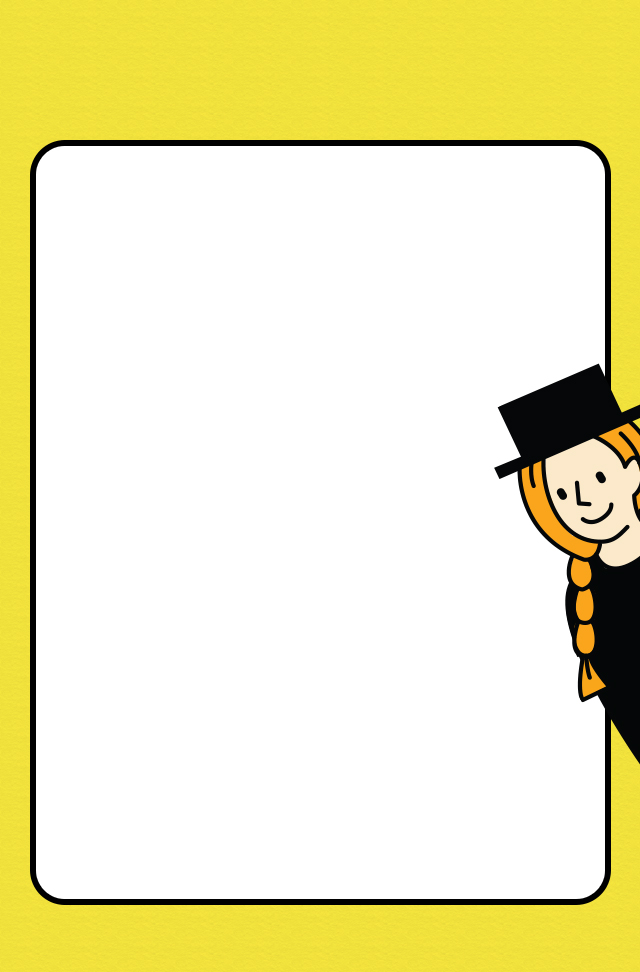
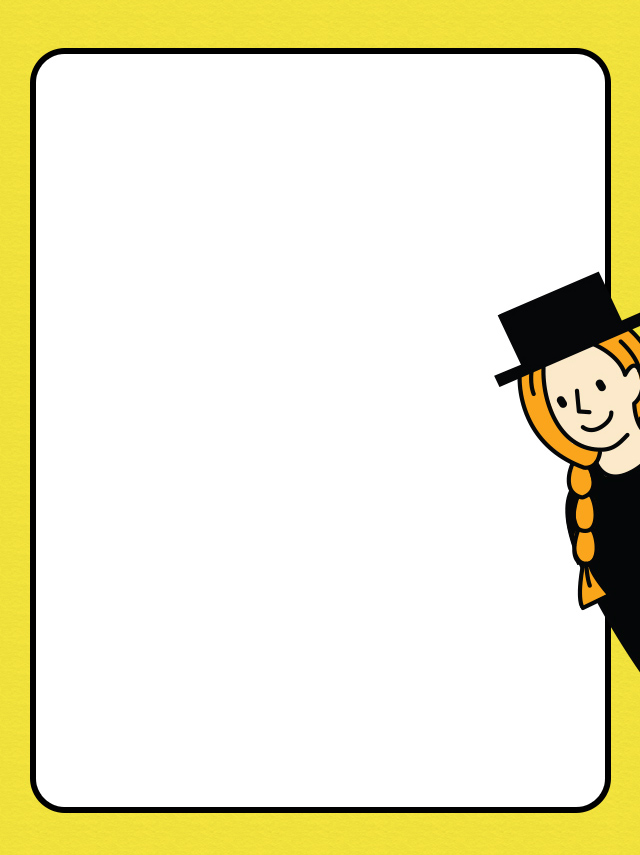
쿠폰확인 페이지

Changed region(s): [[0.0312, 0.0304, 0.9688, 0.1825], [0.7812, 0.3041, 1.0, 0.7602], [0.0312, 0.8819, 0.9688, 0.9731]]

diff --git a/MOBILE/m_coupon.html b/MOBILE/m_coupon.html
@@ -15,20 +15,14 @@ initial-scale=1.0, maximum-scale=3.0"/>
 
 <body>
     
-   
- 	<div class="sec_top">
-    	<div class="inner_sec_top clearfix">
-	        <div class="logo"><a href="#"><img src="images/logo.png" alt=""/></a></div>
-	        <div class="menu"><a href="#"><img src="images/menu_ham.png" width="95" alt=""/></a></div>
-            
-        </div>
-    </div>
      
     <div class="sec_sub_coupon">
     	
     	<div class="thanks bg">
-        	<a href="#"><img src="images/img_coupon.png" alt=""/></a>
+        	<img src="images/img_coupon.png" alt=""/>
+            <img src="images/coupon_text.png" alt=""/>
         </div>
+        <div class="coupon_text">빌리프 안산점</div>
         <div class="coupon bg">
         	<a href="#"><img src="images/btn_coupon.png" alt=""/></a>
         </div>

diff --git a/MOBILE/css/style.css b/MOBILE/css/style.css
@@ -119,9 +119,20 @@ body{
 
 .sec_sub_coupon .coupon{
 	position:absolute;
-	bottom:15%; 
+	bottom:13%; 
 }
 
+.sec_sub_coupon{
+	float:right;
+	font-size:17px;
+	font-weight:bold;
+	line-height:28px;
+}
+.sec_sub_coupon .coupon_text{
+	position:absolute;
+	bottom:35%; 
+	left:52%;
+}
 
 @media screen and (min-device-width: 321px) and (max-device-width: 375px) {
 	.wrap_game_bg{

diff --git a/MOBILE/coupon_page.php b/MOBILE/coupon_page.php
@@ -1,48 +1,32 @@
-<!doctype html>
-<html>
-<head>
-<meta charset="utf-8">
-<meta name="viewport"
-content="width=device-width, user-scalable=yes,
-initial-scale=1.0, maximum-scale=3.0"/>
-<link rel="shortcut icon" type="image/x-icon" href="./img/icon/favicon.ico" />
-<title>모바일 서브 게임</title>
-<!--[if lt IE 9]><script src="./js/html5shiv.js"></script><![endif]-->
-<link href="css/style.css" rel="stylesheet" type="text/css">
-<script src="js/vendor/modernizr-2.6.2.min.js"></script>
+<?
+	include_once   "./header.php";
+	$mb_phone	= $_REQUEST['mid'];
 
-</head>
+	$mb_query		= "SELECT * FROM ".$_gl['member_info_table']." WHERE mb_phone='".$mb_phone."'";
+	$mb_result		= mysqli_query($my_db, $mb_query);
+	$mb_data		= mysqli_fetch_array($mb_result);
 
+	if (!$mb_data)
+	{
+		print_r("고객님의 쿠폰 정보가 없습니다.");
+		exit;
+	}
+	$shop_query		= "SELECT * FROM ".$_gl['shop_info_table']." WHERE idx='".$mb_data['mb_shop']."'";
+	$shop_result		= mysqli_query($my_db, $shop_query);
+	$shop_data		= mysqli_fetch_array($shop_result);
+
+?>
 <body>
-    
-   
- 	<div class="sec_top">
-    	<div class="inner_sec_top clearfix">
-	        <div class="logo"><a href="#"><img src="images/logo.png" alt=""/></a></div>
-	        <div class="menu"><a href="#"><img src="images/menu_ham.png" width="95" alt=""/></a></div>
-            
-        </div>
-    </div>
-     
-    <div class="sec_sub_coupon">
-    	
-    	<div class="thanks bg">
-        	<a href="#"><img src="images/img_coupon.png" alt=""/></a>
-        </div>
-        <div class="coupon bg">
-        	<a href="#"><img src="images/btn_coupon.png" alt=""/></a>
-        </div>
-    	<div class="bg"><img src="images/bg_coupon.jpg" alt=""/></div>
-    </div>
-    
-
-
-
-
- 
- 
- 
-    
-    
+<div class="sec_sub_coupon">
+  <div class="thanks bg">
+    <img src="images/img_coupon.png" alt=""/>
+    <img src="images/coupon_text.png" alt=""/>
+  </div>
+  <div class="coupon_text"><?=$shop_data['shop_name']?></div>
+  <div class="coupon bg">
+    <a href="#"><img src="images/btn_coupon.png" alt=""/></a>
+  </div>
+  <div class="bg"><img src="images/bg_coupon.jpg" alt=""/></div>
+</div>
 </body>
 </html>

diff --git a/main_exec.php b/main_exec.php
@@ -23,6 +23,7 @@ switch ($_REQUEST['exec'])
 	case "insert_info" :
 		$mb_name			= $_REQUEST['mb_name'];
 		$mb_phone			= $_REQUEST['mb_phone'];
+		$mb_shop			= $_REQUEST['mb_shop'];
 		$media				= $_SESSION['ss_media'];
 
 		$dupli_query 	= "SELECT * FROM ".$_gl['member_info_table']." WHERE mb_phone='".$mb_phone."'";
@@ -34,7 +35,7 @@ switch ($_REQUEST['exec'])
 			$flag	= "D";
 		}else{
 			$serial	= BC_getSerial();
-			$query 	= "INSERT INTO ".$_gl['member_info_table']."(mb_ipaddr,mb_name,mb_phone,mb_regdate,mb_serial,mb_gubun,mb_media) values('".$_SERVER['REMOTE_ADDR']."','".$mb_name."','".$mb_phone."','".date("Y-m-d H:i:s")."','".$serial."','".$gubun."','".$media."')";
+			$query 	= "INSERT INTO ".$_gl['member_info_table']."(mb_ipaddr,mb_name,mb_phone,mb_shop,mb_regdate,mb_serial,mb_gubun,mb_media) values('".$_SERVER['REMOTE_ADDR']."','".$mb_name."','".$mb_phone."','".$mb_shop."','".date("Y-m-d H:i:s")."','".$serial."','".$gubun."','".$media."')";
 			$result 	= mysqli_query($my_db, $query);
 			send_lms($mb_phone);
 			if ($result)

diff --git a/MOBILE/popup_div.php b/MOBILE/popup_div.php
@@ -9,7 +9,7 @@
       <div class="inner">
         <div class="btn_tap_menu clearfix">
           <a href="#"><img src="images/popup/btn_gift_on.png" /></a>
-          <a href="#"><img src="images/popup/btn_notice_off.png" /></a>
+          <a href="#" onclick="open_pop('notice_popup');"><img src="images/popup/btn_notice_off.png" /></a>
         </div>
         <div class="img_pic">
           <img src="images/popup/img_cushion.jpg" />
@@ -51,7 +51,7 @@
     <div class="block_content view_pic">
       <div class="inner">
         <div class="btn_tap_menu clearfix">
-          <a href="#"><img src="images/popup/btn_gift_off.png" /></a>
+          <a href="#" onclick="open_pop('gift_popup');"><img src="images/popup/btn_gift_off.png" /></a>
           <a href="#"><img src="images/popup/btn_notice_on.png" /></a>
         </div>
         <div class="img_pic">
